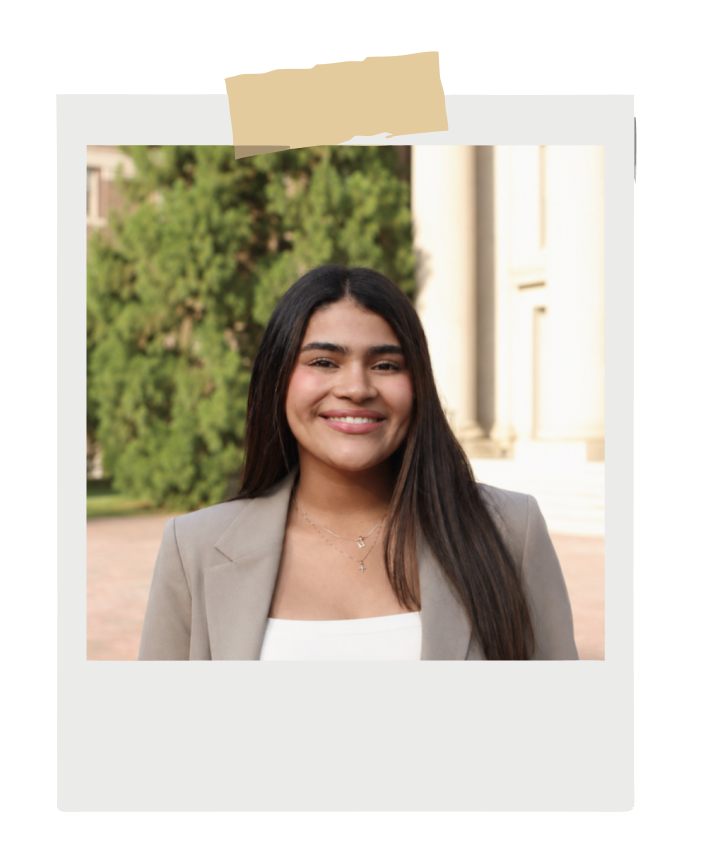
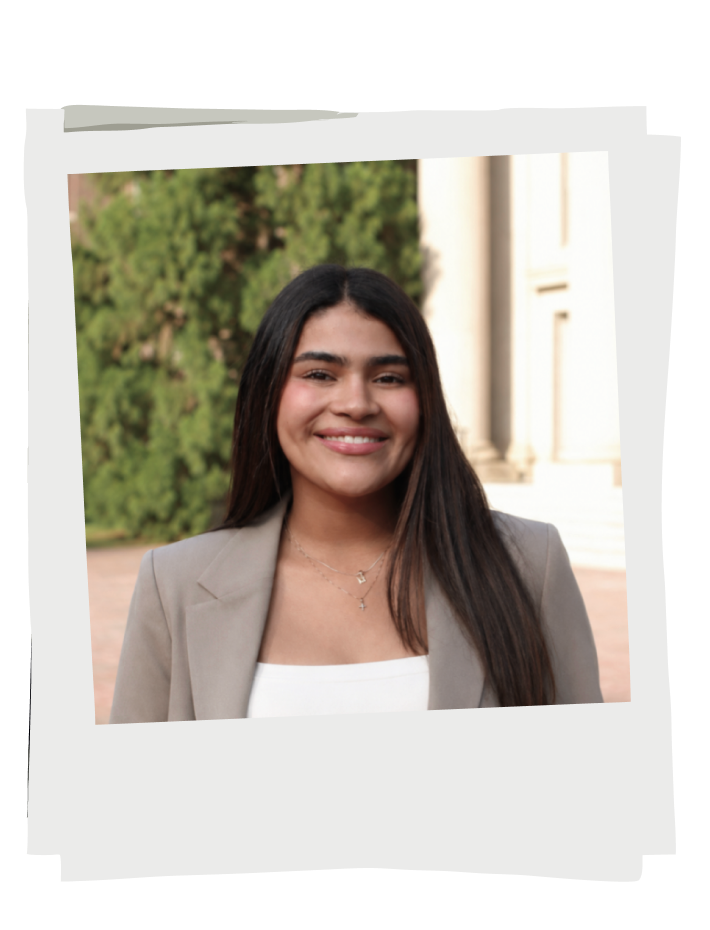
photofix

diff --git a/style.css b/style.css
@@ -149,11 +149,10 @@ section {
 .hero {
   padding-top: 70px;
   display: grid;
-  grid-template-columns: 1.1fr 0.9fr;
-  gap: 30px;
+  grid-template-columns: 1.2fr 0.8fr;  /* was: 1.1fr 0.9fr — gives text a bit more room, pulls image column in */
+  gap: 24px;                           /* was: 30px */
   align-items: center;
 }
-
 .hero-text p {
   font-size: 1.15rem;
   margin: 0 0 22px;

diff --git a/index.html b/index.html
@@ -29,7 +29,7 @@
       I care about making systems easy to use. 
     </p>
     <p>
-      Currently exploring how AI can make navigation and place discovery
+      Currently exploring how generative AI can make navigation 
       feel more human @ Smurfit Westrock
     </p>
     <div class="hero-cta">
